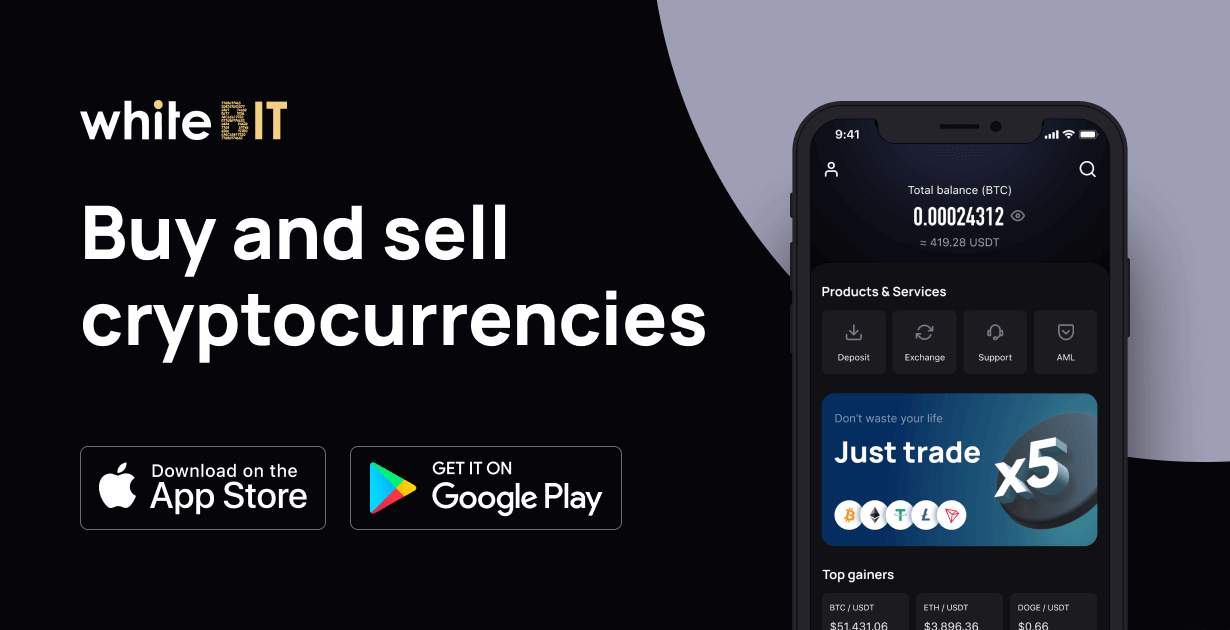
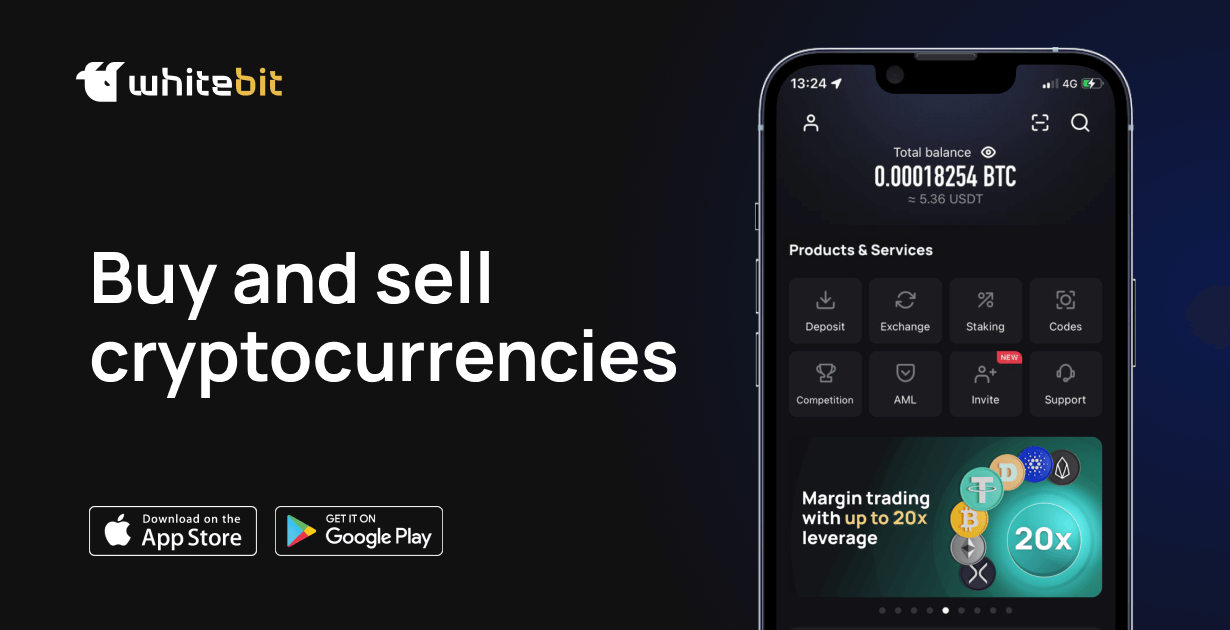
feat: add new corporate identity (#108)

diff --git a/docusaurus.config.js b/docusaurus.config.js
@@ -11,7 +11,7 @@ const config = {
   baseUrl: "/api-docs/",
   onBrokenLinks: "throw",
   onBrokenMarkdownLinks: "warn",
-  favicon: "img/favicon.ico",
+  favicon: "img/favicon.svg",
   organizationName: "whitebit-exchange",
   projectName: "api-docs",
   trailingSlash: false,
